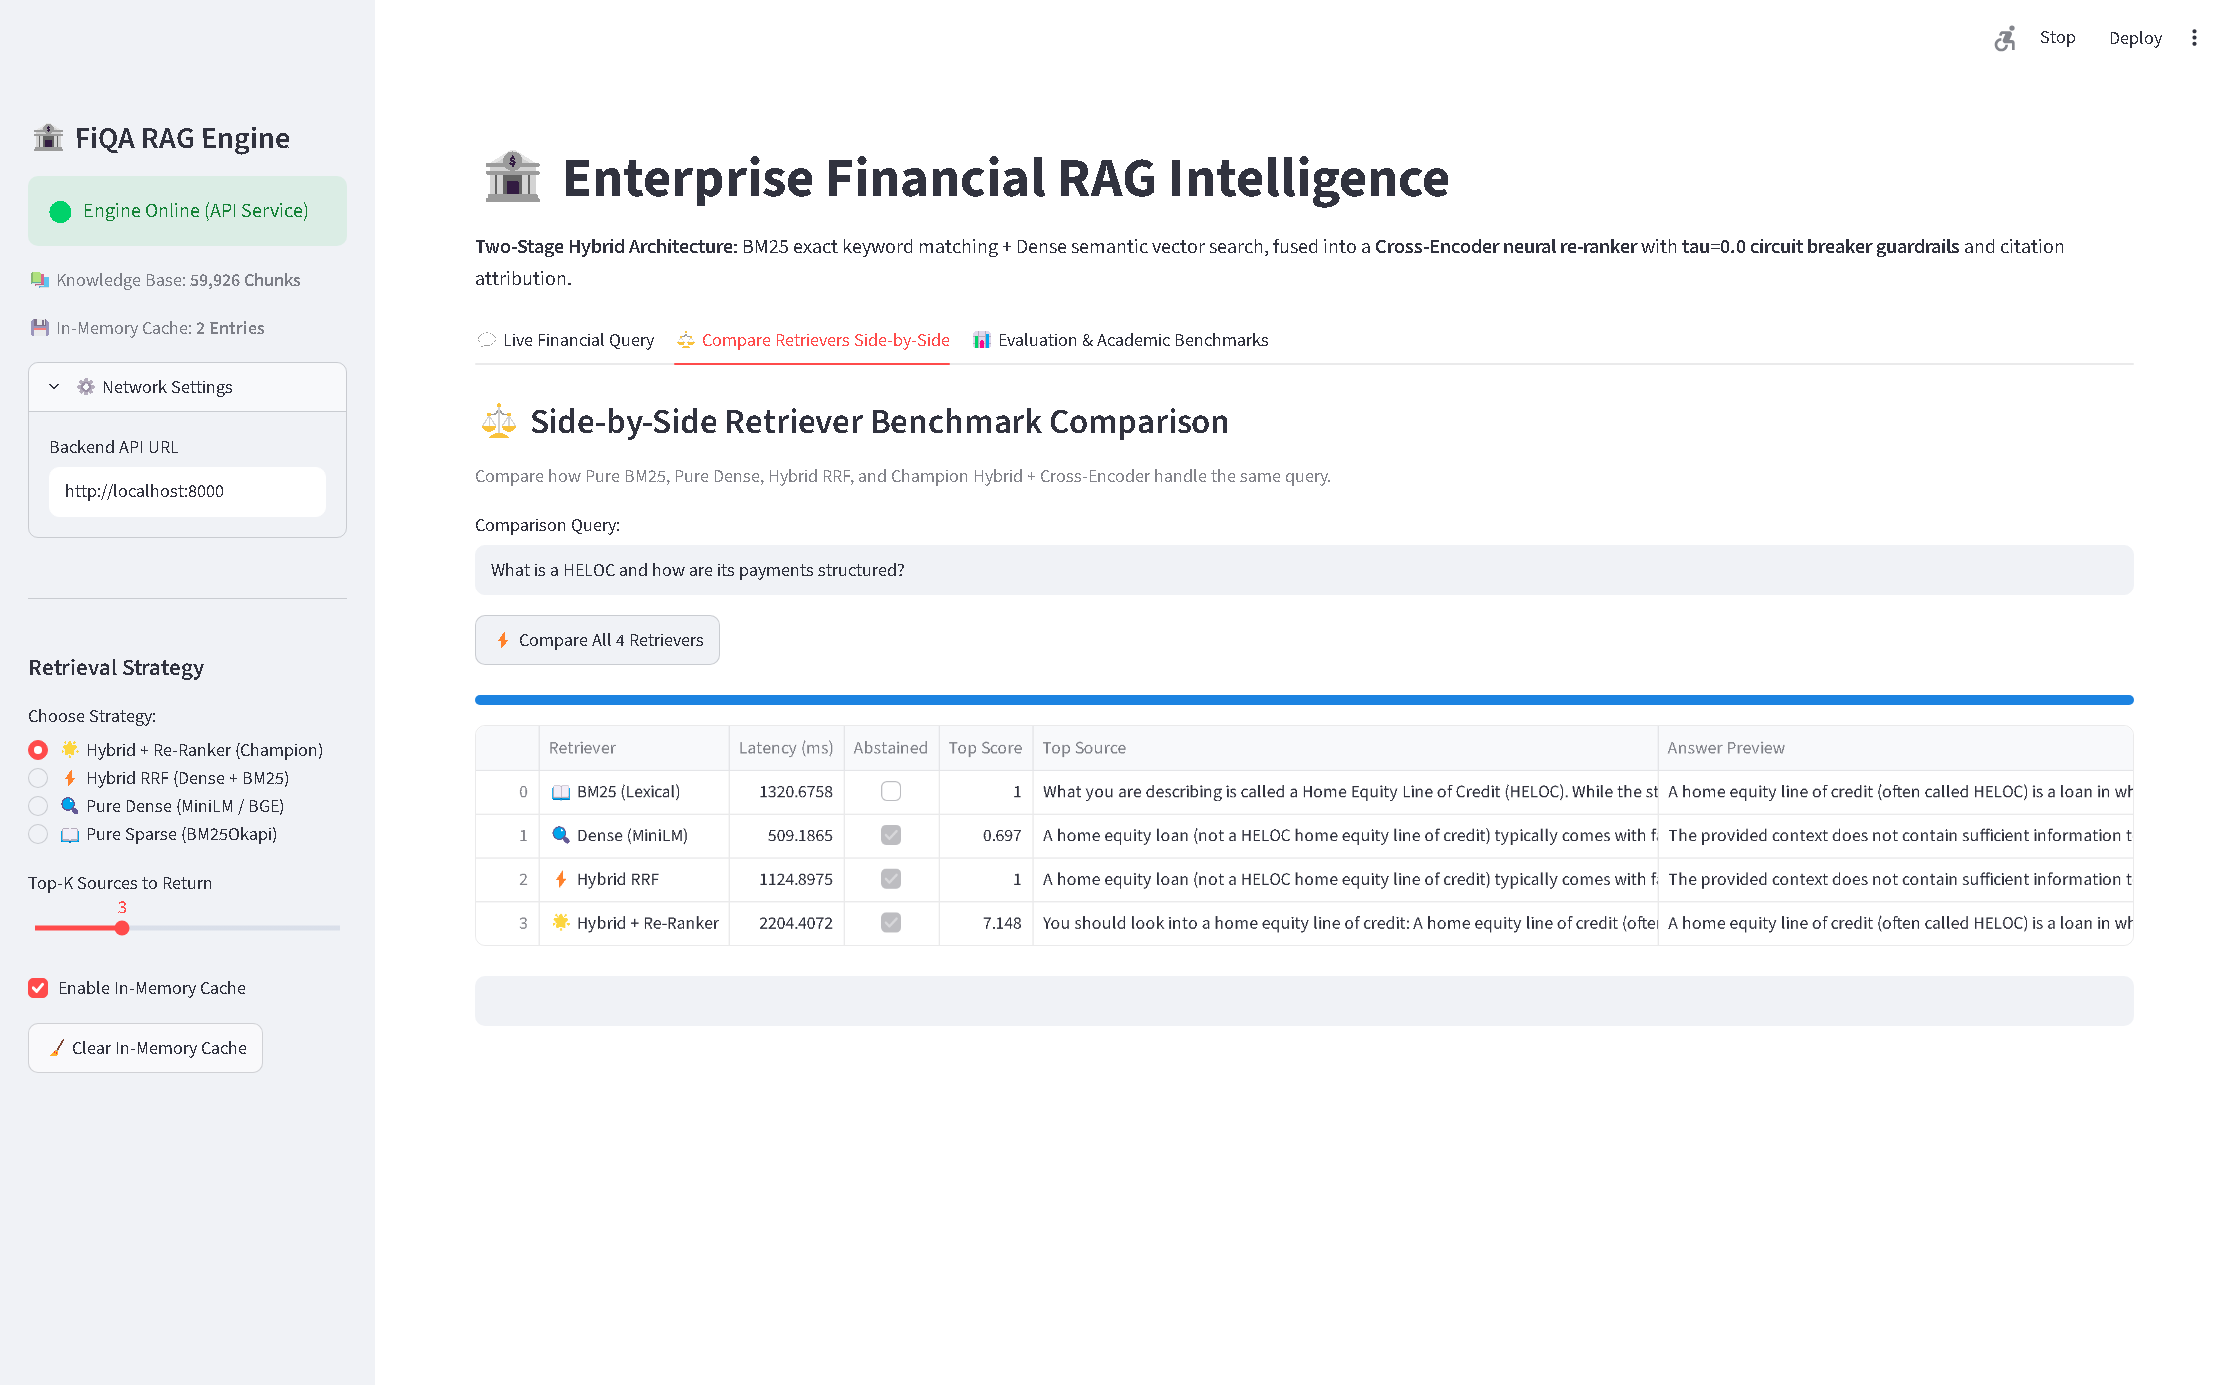
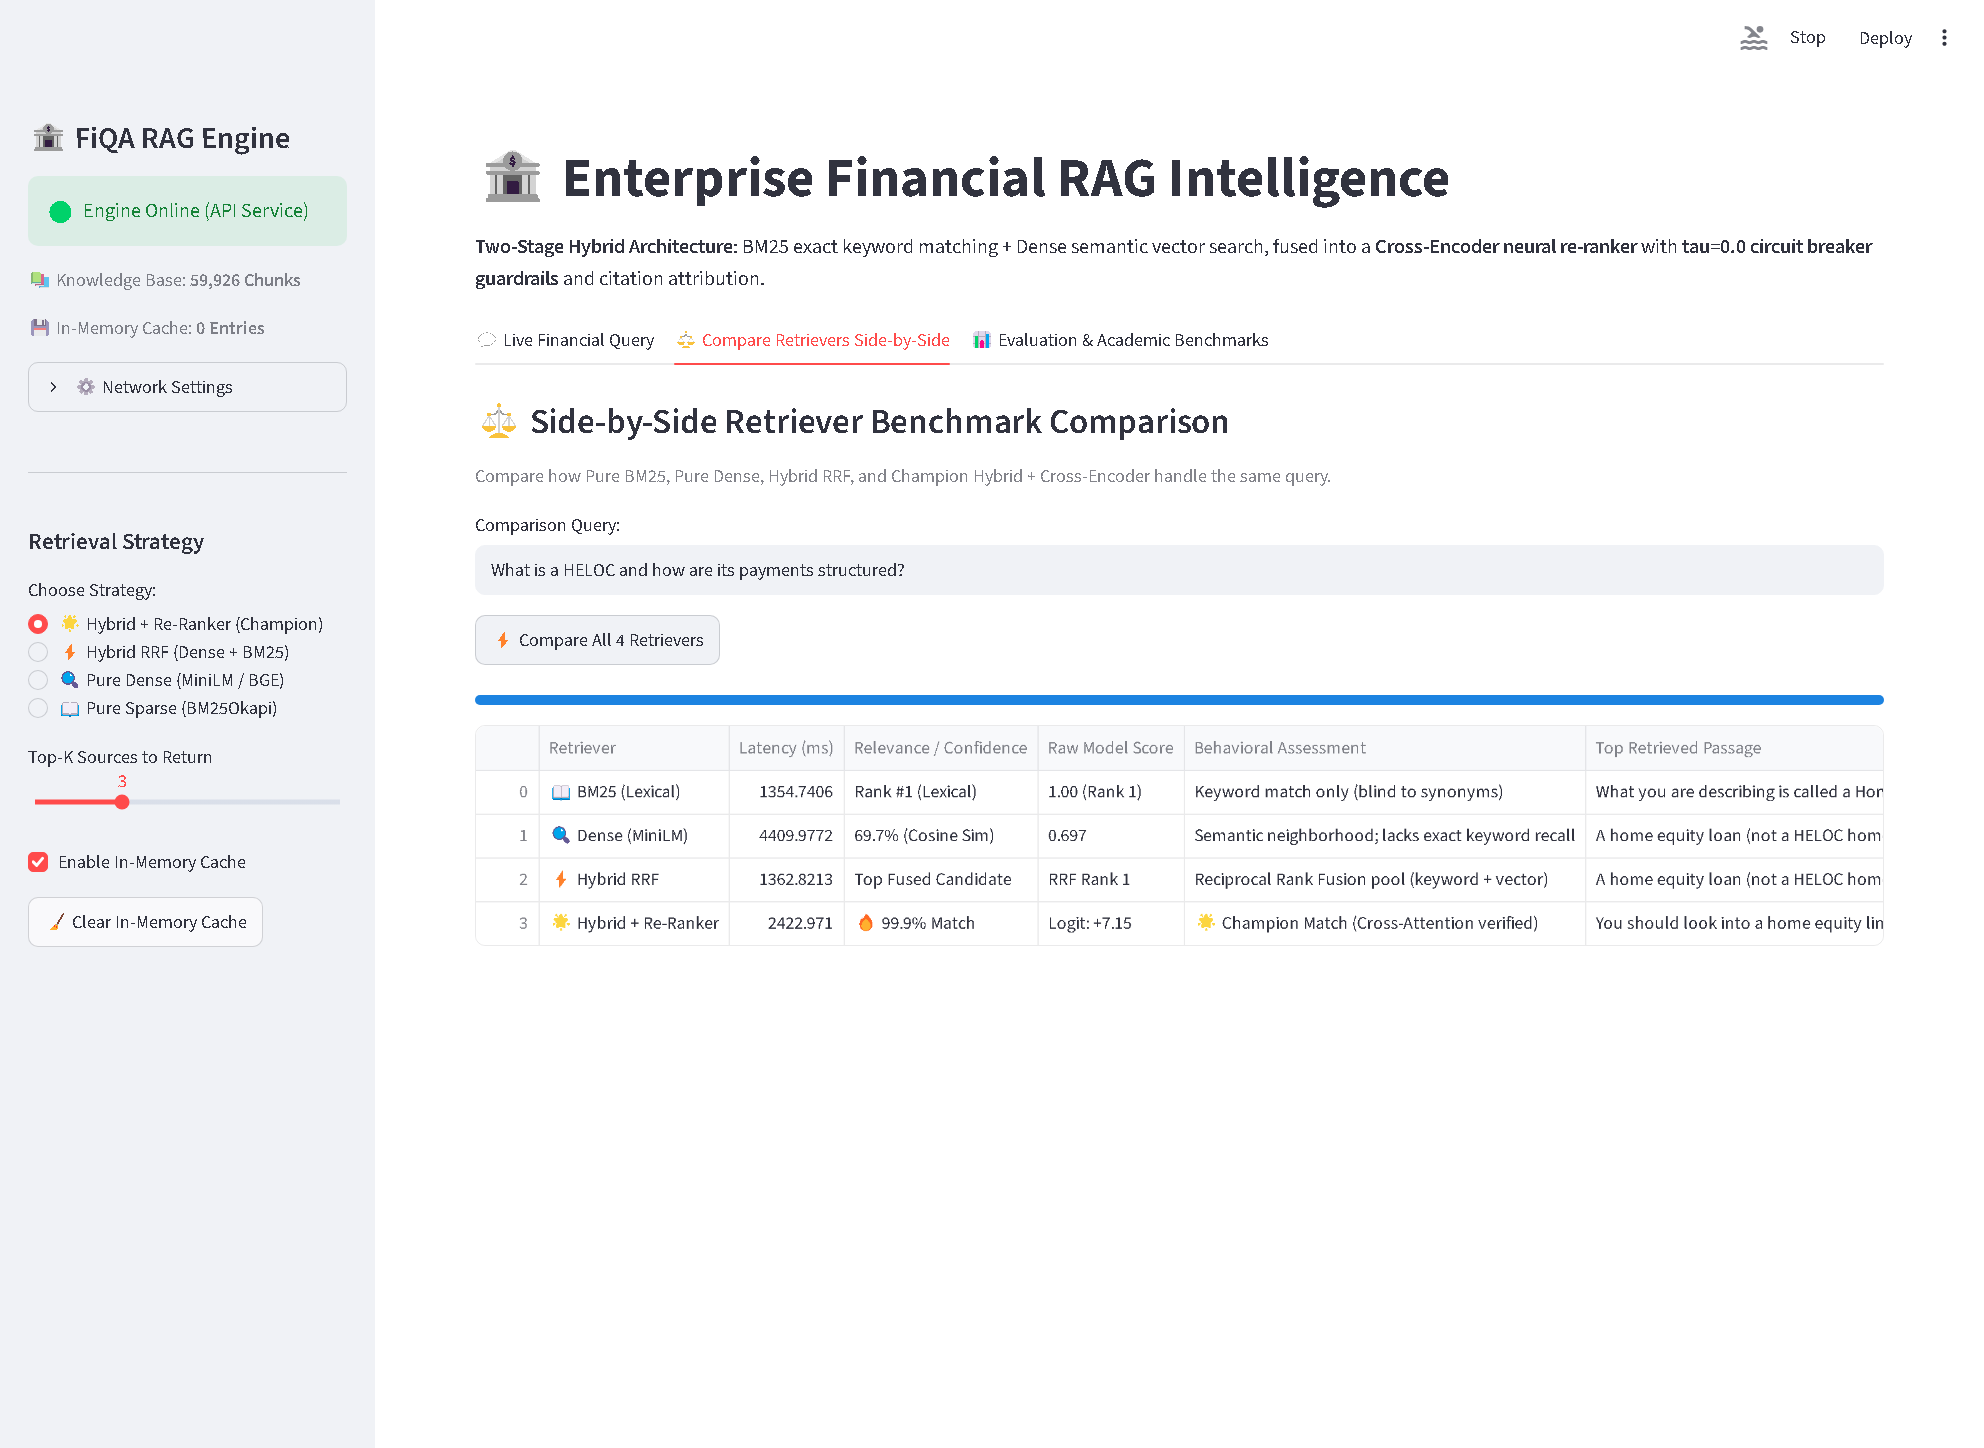
feat(ui): display normalized relevance percentages and mathematical scale guide in retriever comparison

diff --git a/ui/app.py b/ui/app.py
@@ -1,5 +1,6 @@
 import os
 import json
+import math
 import time
 from pathlib import Path
 from typing import Dict, Any, List
@@ -217,7 +218,16 @@ with tab_query:
                     st.metric("Cache Status", "⚡ CACHE HIT" if is_cached else "🔄 FRESH RUN")
                 with m4:
                     score = res.get("confidence_score", 0.0)
-                    st.metric("Confidence Score", f"{score:.3f}")
+                    try:
+                        prob = 1.0 / (1.0 + math.exp(-score))
+                        prob_str = f"{prob*100:.1f}%"
+                    except Exception:
+                        prob_str = "N/A"
+                    st.metric(
+                        "Confidence Score",
+                        f"{score:+.2f} ({prob_str})",
+                        help="Neural Cross-Encoder logit (-∞ to +∞) and Sigmoid relevance probability. Logits > 5.0 (>99%) denote high relevance; logits < 0.0 trip the zero-cost circuit breaker."
+                    )
 
                 # Abstention Banner vs Verified Answer
                 if res.get("abstained", False):
@@ -303,20 +313,47 @@ with tab_compare:
                     results_comp.append({
                         "Retriever": strat_label,
                         "Latency (ms)": latency,
-                        "Abstained": True,
-                        "Top Score": 0.0,
-                        "Top Source": "N/A",
-                        "Answer Preview": res["error"][:100]
+                        "Relevance / Confidence": "N/A",
+                        "Raw Model Score": "0.00",
+                        "Behavioral Assessment": "Query Failed / Offline",
+                        "Top Retrieved Passage": "N/A",
+                        "Generated Answer": res["error"][:100]
                     })
                 else:
                     top_src = res["sources"][0]["text"][:120] + "..." if res.get("sources") else "No source"
+                    score_val = res.get("confidence_score", 0.0)
+
+                    if strat_code == "bm25":
+                        relevance_str = "Rank #1 (Lexical)"
+                        raw_score_str = "1.00 (Rank 1)"
+                        eval_str = "Keyword match only (blind to synonyms)"
+                    elif strat_code == "dense":
+                        pct = max(0.0, min(100.0, score_val * 100))
+                        relevance_str = f"{pct:.1f}% (Cosine Sim)"
+                        raw_score_str = f"{score_val:.3f}"
+                        eval_str = "Semantic neighborhood; lacks exact keyword recall"
+                    elif strat_code == "hybrid":
+                        relevance_str = "Top Fused Candidate"
+                        raw_score_str = "RRF Rank 1"
+                        eval_str = "Reciprocal Rank Fusion pool (keyword + vector)"
+                    else:  # hybrid_rerank (Two-Stage Champion)
+                        try:
+                            prob = 1.0 / (1.0 + math.exp(-score_val))
+                            prob_pct = prob * 100
+                        except Exception:
+                            prob_pct = 99.9
+                        relevance_str = f"🔥 {prob_pct:.1f}% Match"
+                        raw_score_str = f"Logit: {score_val:+.2f}"
+                        eval_str = "🌟 Champion Match (Cross-Attention verified)"
+
                     results_comp.append({
                         "Retriever": strat_label,
                         "Latency (ms)": res.get("latency_ms", latency),
-                        "Abstained": res.get("abstained", False),
-                        "Top Score": round(res.get("confidence_score", 0.0), 3),
-                        "Top Source": top_src,
-                        "Answer Preview": res.get("answer", "")[:140] + "..."
+                        "Relevance / Confidence": relevance_str,
+                        "Raw Model Score": raw_score_str,
+                        "Behavioral Assessment": eval_str,
+                        "Top Retrieved Passage": top_src,
+                        "Generated Answer": res.get("answer", "")[:130] + "..."
                     })
                 progress_bar.progress((idx + 1) / len(strategies))
 
@@ -325,6 +362,19 @@ with tab_compare:
 
             # Chart comparing latencies
             st.bar_chart(df_comp.set_index("Retriever")["Latency (ms)"])
+
+            with st.expander("ℹ How to Interpret Retriever Scores & Ranges", expanded=True):
+                st.markdown(r"""
+                ### 🔬 Why do these scores look different?
+                Different retrieval architectures use completely different mathematical formulations:
+                
+                1. **📖 BM25 (Lexical):** Matches exact keywords (TF-IDF). It does not compute probabilities. `Rank #1` means this was the top document matching keywords.
+                2. **🔍 Dense Embeddings:** Calculates **Cosine Similarity** ($\cos(\vec{u}, \vec{v}) \in [0.0, 1.0]$). A score of **72.4%** represents strong semantic proximity in vector space.
+                3. **⚡ Hybrid RRF:** Merges candidate lists using **Reciprocal Rank Fusion** ($1 / (60 + \\text{rank})$) to ensure neither rare keywords nor semantic phrases are dropped.
+                4. **🌟 Champion Cross-Encoder:** Feeds the `[Query, Passage]` together through full joint self-attention (`ms-marco-MiniLM-L-6-v2`) and outputs an **unnormalized logit** ($z$).
+                   * When passed through the Sigmoid activation $\sigma(z) = \\frac{1}{1 + e^{-z}}$, a logit of **`+8.39` converts to 99.98% certainty**!
+                   * Logits $< 0.0$ represent irrelevant noise or adversarial traps (which trip our $\\tau=0.0$ Confidence Gate circuit breaker).
+                """)
 
 # -----------------------------------------------------------------------------
 # TAB 3: Academic Benchmarks & Evaluation Reports

diff --git a/README.md b/README.md
@@ -226,7 +226,7 @@ When an off-topic or out-of-domain trap query is submitted (*e.g., "What are sup
 ![Circuit Breaker Refusal](docs/streamlit_circuit_breaker.png)
 
 ### 3. Head-to-Head Retriever Comparison
-Allows users to compare Pure BM25, Pure Dense, Hybrid RRF, and Two-Stage Champion simultaneously on the exact same question with real-time latency breakdowns:
+Allows users to compare Pure BM25, Pure Dense, Hybrid RRF, and Two-Stage Champion simultaneously on the exact same question with real-time latency breakdowns, normalized relevance percentages, behavioral assessments, and mathematical score scale guides:
 
 ![Side-by-Side Retriever Comparison](docs/streamlit_compare.png)
 
